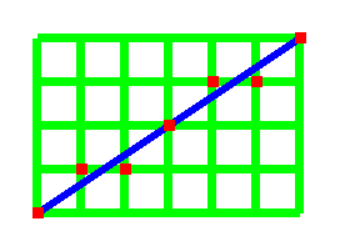
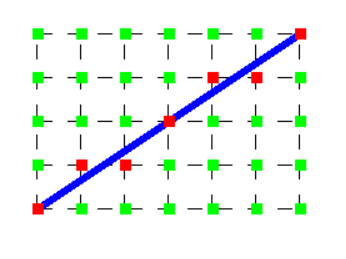
update DDA

diff --git a/README.md b/README.md
@@ -79,7 +79,7 @@ void drawLineDDA(GLint x1, GLint y1, GLint x2, GLint y2)
 }
 ```
 
-绘制结果如图（补上绿色网格，绿线交点为像素点，白块代表像素空隙（放大效果））
+绘制结果如图（补上黑色网格，蓝线为预期效果，绿点为可点亮像素点，白色部分代表像素空隙（放大效果））
 
 ![DDA算法效果图](DDA.PNG)
 
